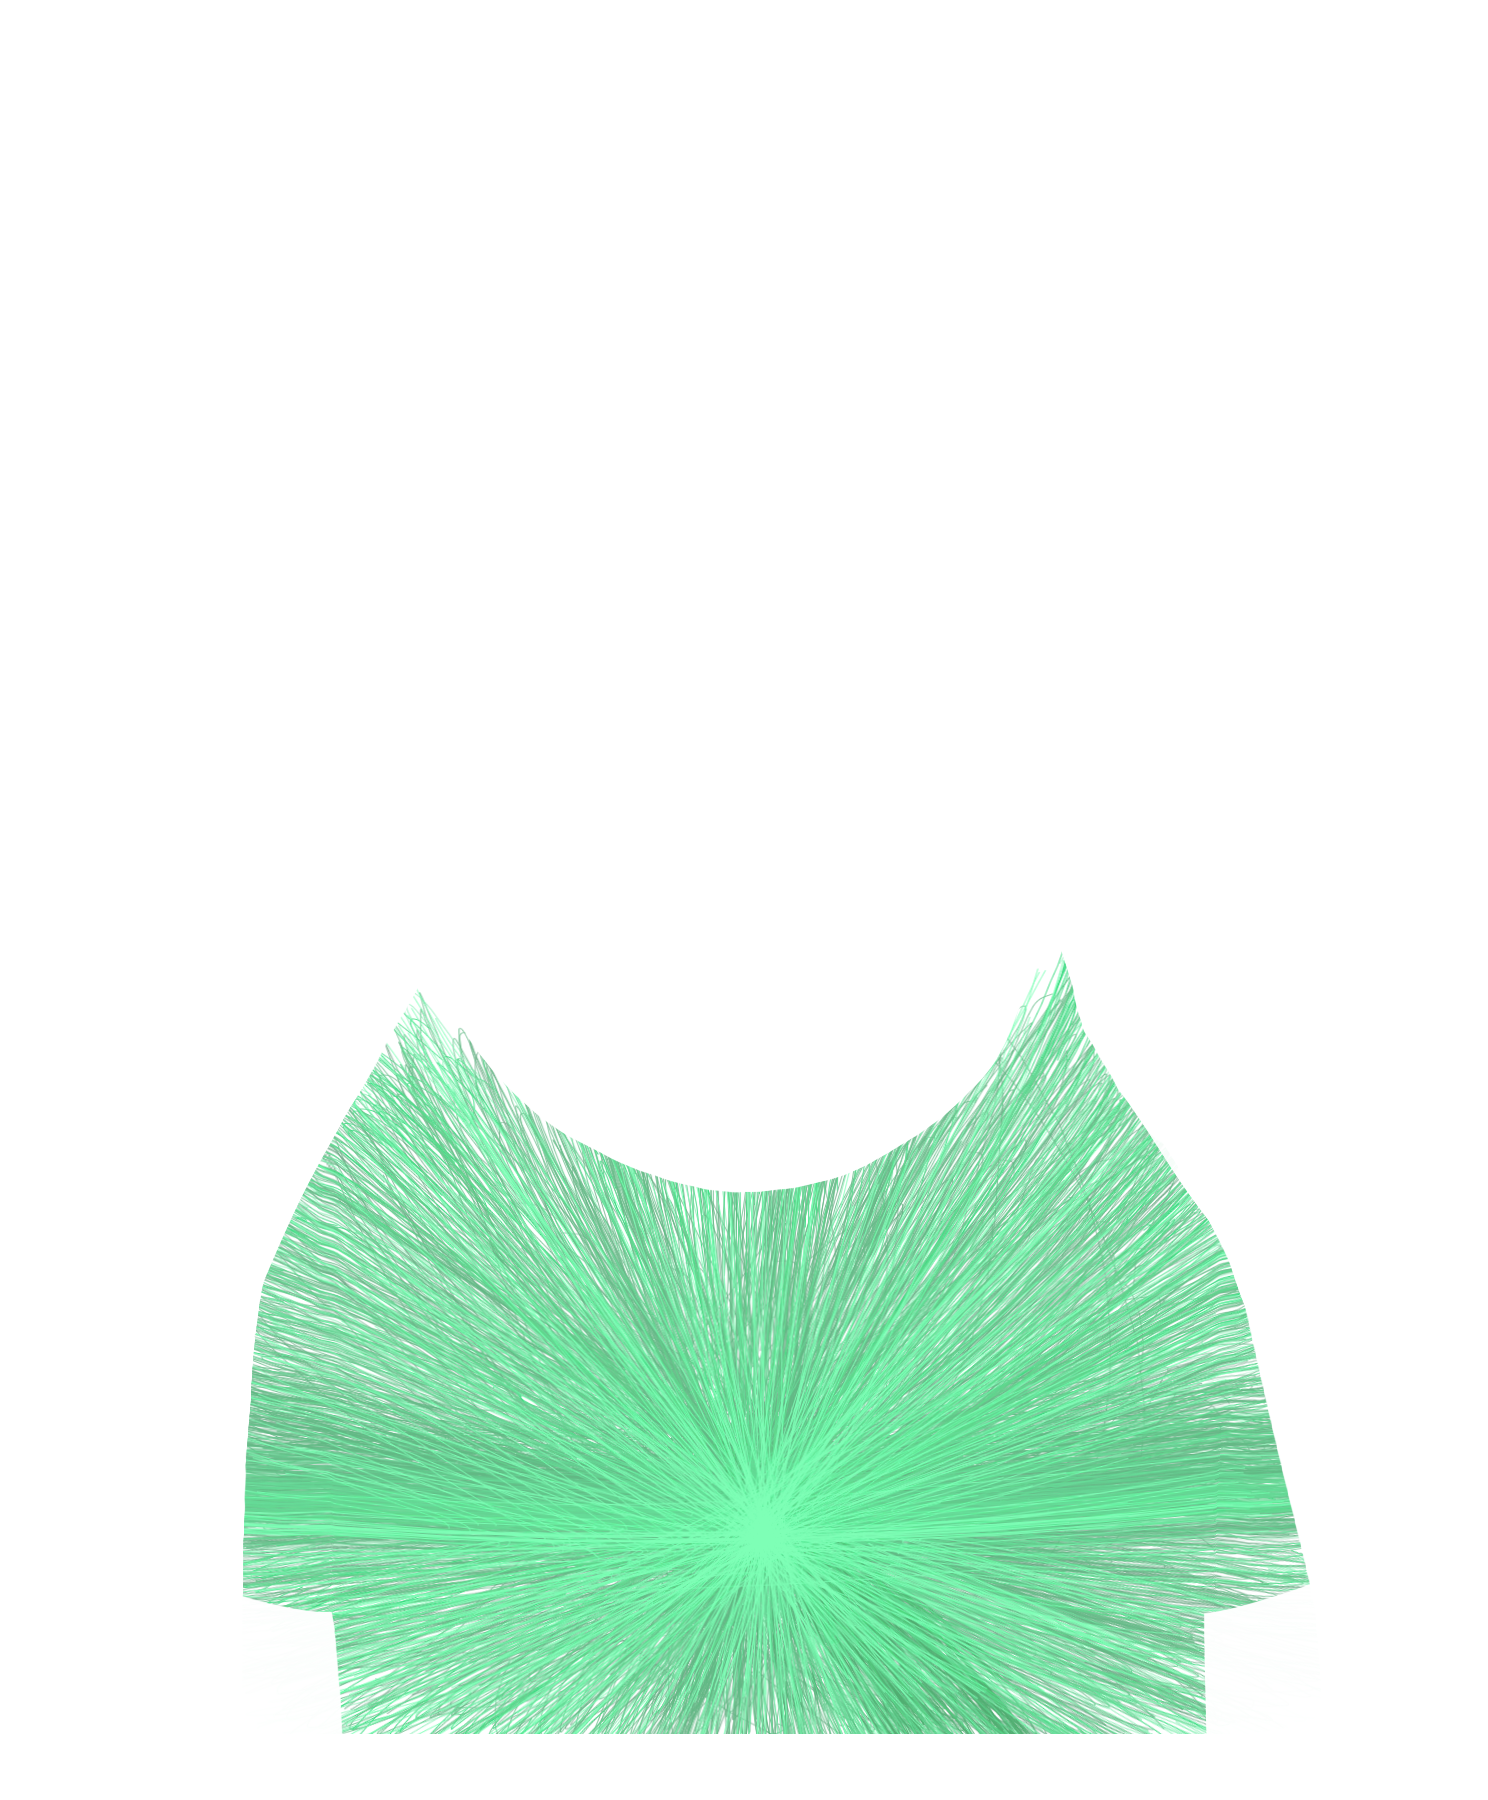
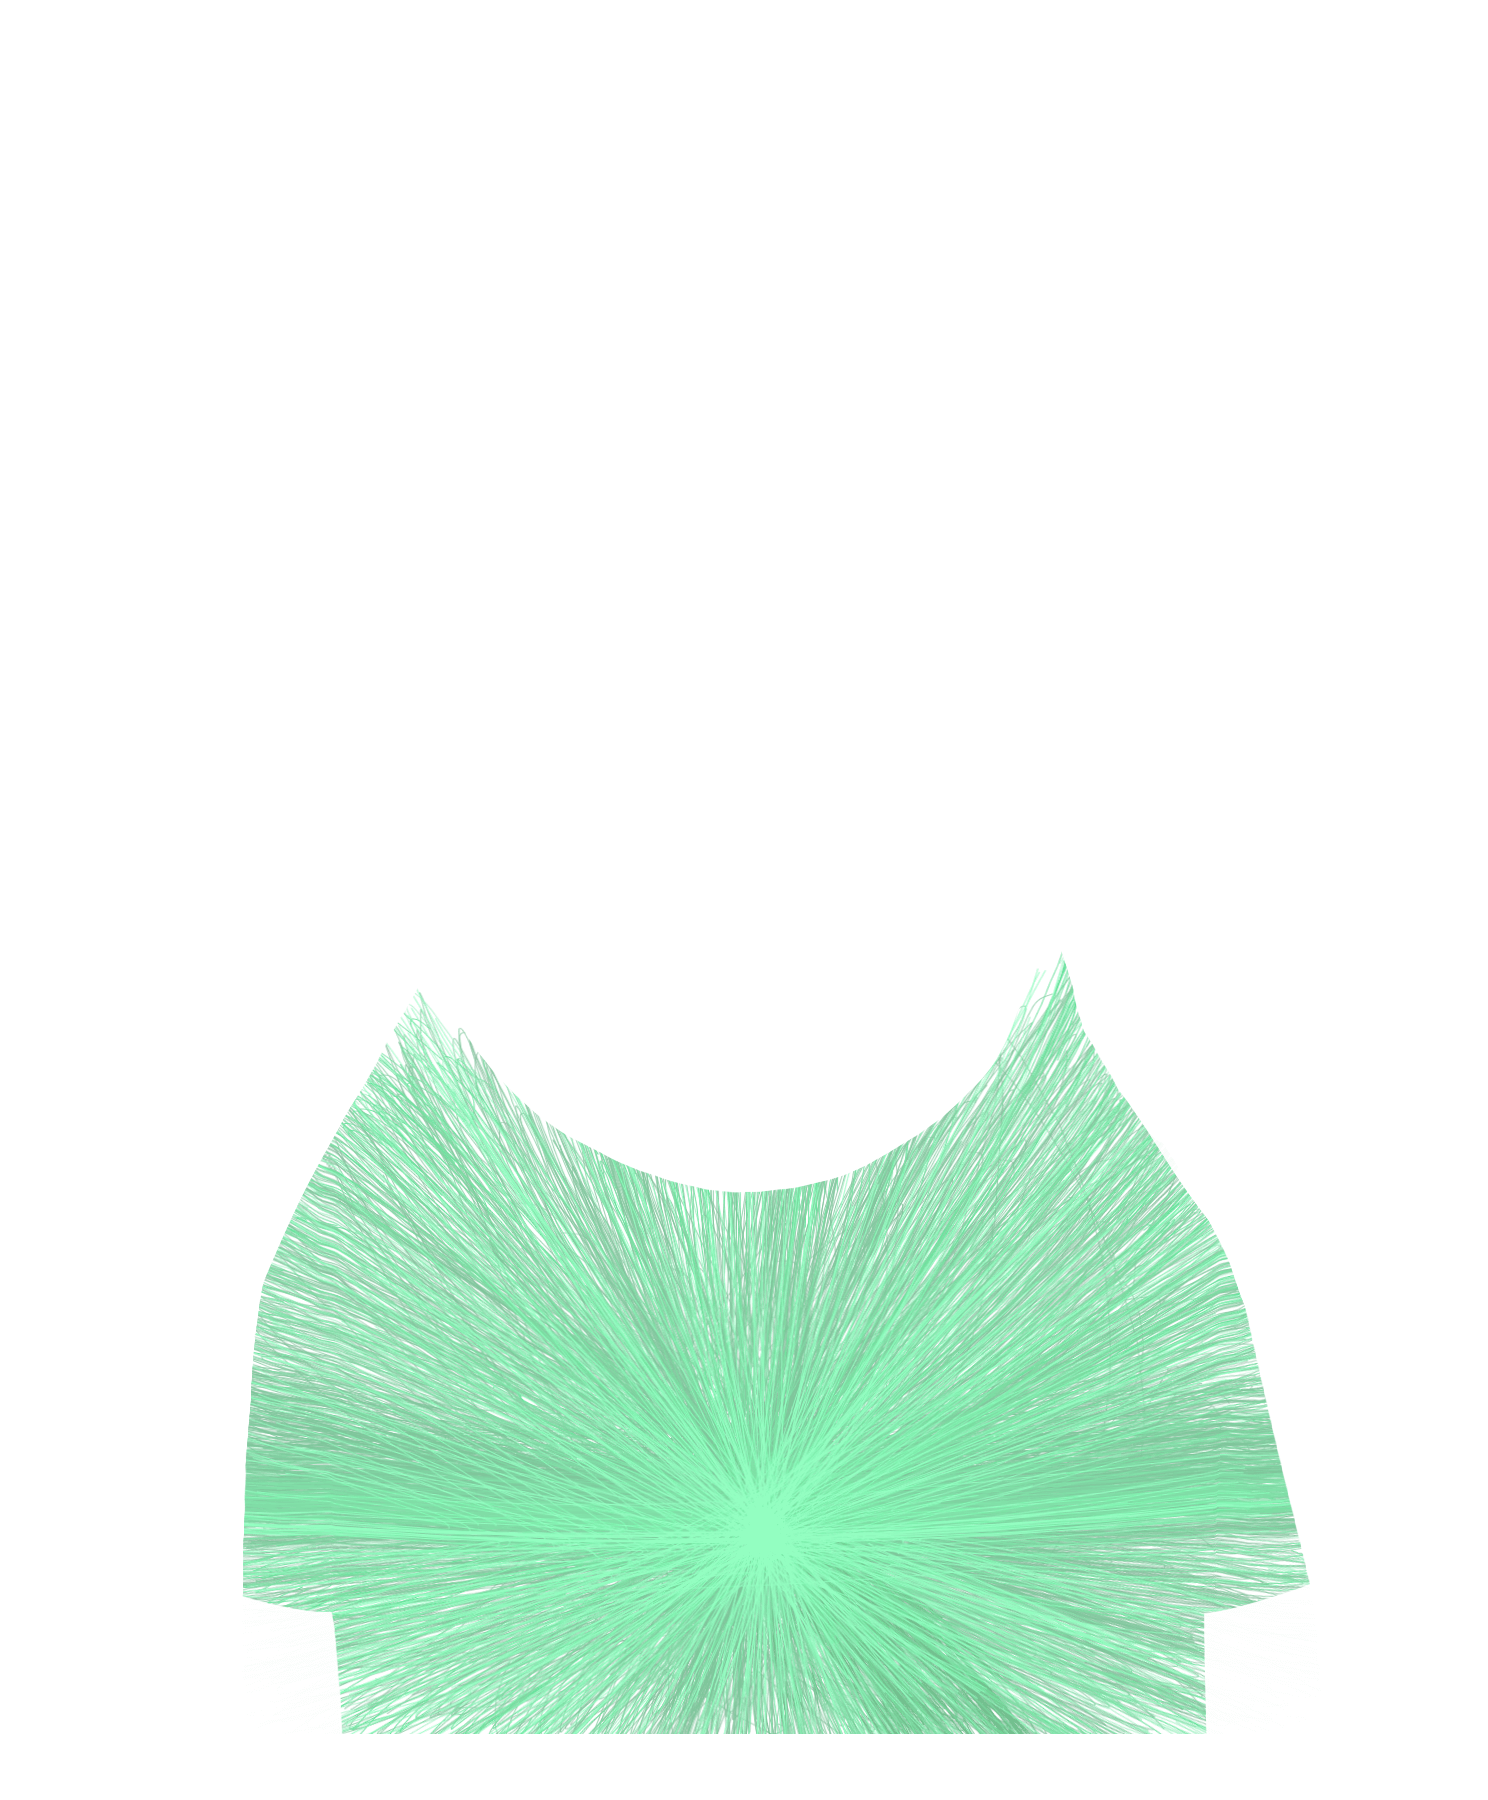
Add threejs fan

Changed region(s): [[0.1546, 0.56, 0.8656, 0.9644]]

diff --git a/2422.js b/2422.js
@@ -600,6 +600,23 @@ const losOsosSchema = {
                     ],
                 },
                 {
+                    name: "Threejs fan",
+                    type: "dual",
+                    tints: ["#209e47", "#24459b", "#c80016" ],
+                    assets: [ 
+                        { image: "./assets/occupation_tshirt_white.png", tint: "#eeeae4", }, 
+                        { image: "./assets/occupation_creator_back.png", tint: "#aaaaaa", }, 
+                        { image: "./assets/occupation_threejs.png" },
+                        "./assets/empty.png",
+                        "./assets/occupation_tshirt_white_lines.png",
+                        "./assets/empty.png",
+
+                        { image: "./assets/occupation_jacket.png", tint: true },
+                        { image: "./assets/occupation_jacket_back.png", tint: true },
+                        "./assets/occupation_jacket_zip.png",
+                    ],
+                },
+                {
                     name: "Horizontes t-shirt",
                     type: "dual",
                     assets: [ 
